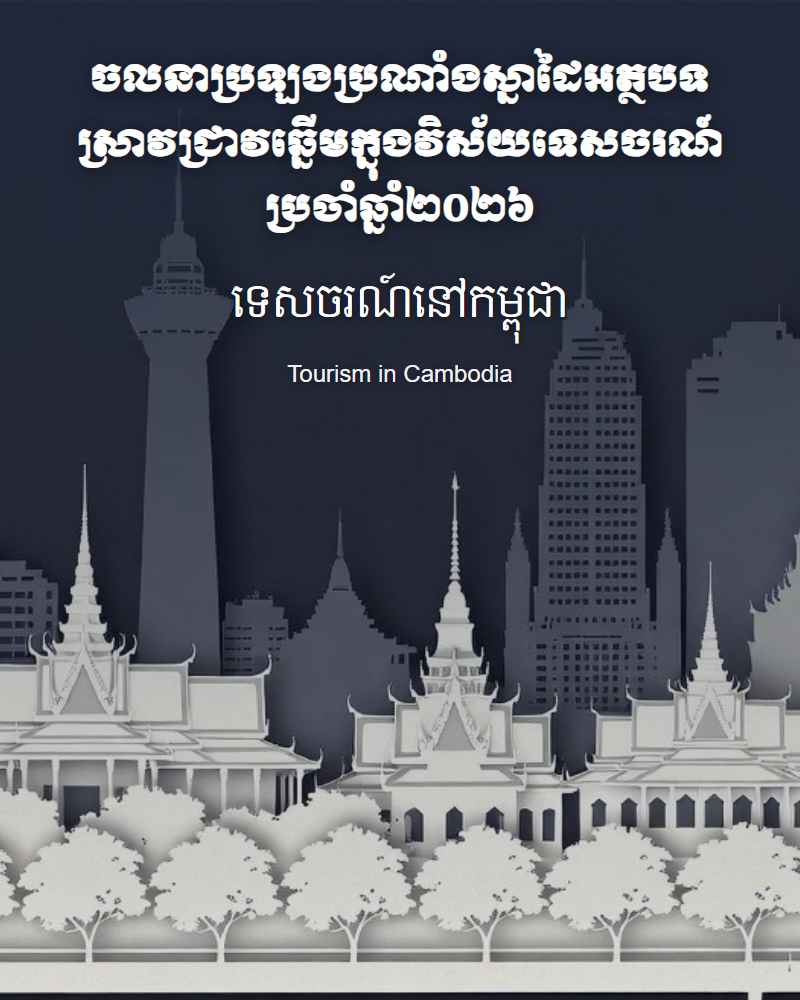
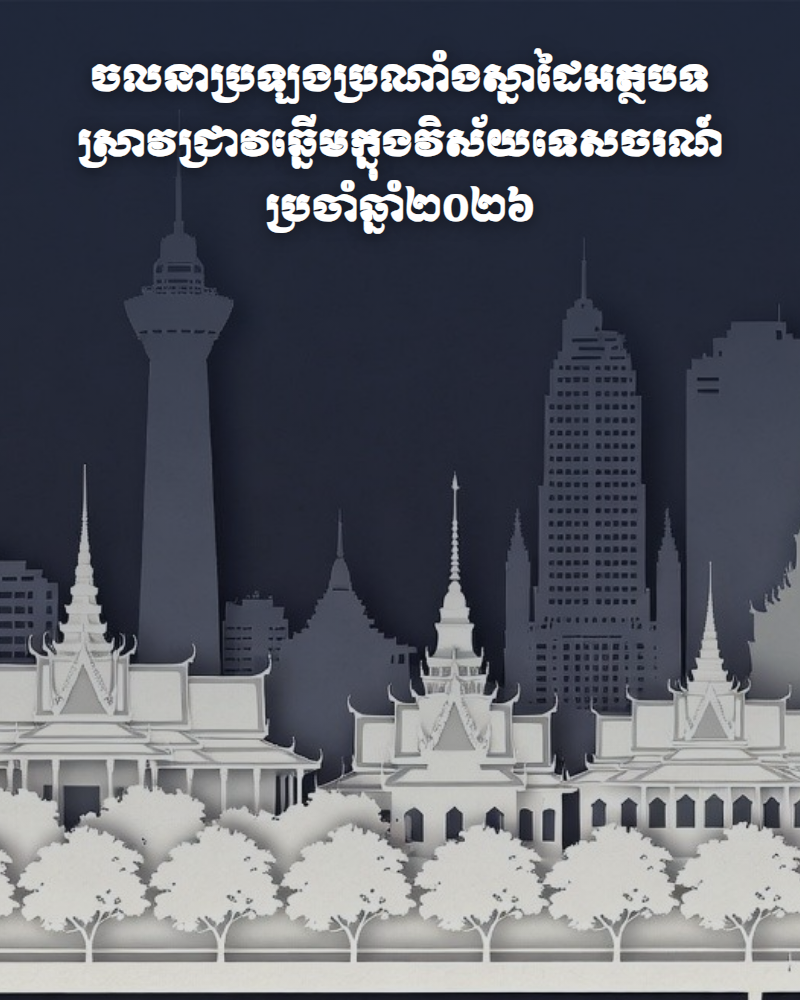
feat: extend student registration and refresh site content

Changed region(s): [[0.2812, 0.279, 0.7188, 0.341], [0.375, 0.372, 0.6562, 0.403]]

diff --git a/register.html b/register.html
@@ -1012,13 +1012,21 @@
 
         .form-group input[type="text"],
         .form-group input[type="email"],
-        .form-group input[type="tel"] {
+        .form-group input[type="tel"],
+        .form-group select {
             min-height: 54px;
             border: 1.5px solid #ccd8e6;
             border-radius: 12px;
             background: #fbfdff;
             color: #102a43;
             box-shadow: inset 0 1px 2px rgba(15, 35, 55, 0.03);
+        }
+
+        .form-group select {
+            appearance: auto;
+            -webkit-appearance: menulist;
+            padding-right: 1rem;
+            cursor: pointer;
         }
 
         .form-group input:hover {
@@ -1029,29 +1037,6 @@
             border-color: #0065b3;
             background: #fff;
             box-shadow: 0 0 0 4px rgba(0, 101, 179, 0.12);
-        }
-
-        .participant-type {
-            display: flex;
-            align-items: center;
-            gap: 0.75rem;
-            min-height: 54px;
-            padding: 0.8rem 1rem;
-            border: 1px solid #b8d5ee;
-            border-radius: 12px;
-            background: linear-gradient(135deg, #eef7ff, #f7fbff);
-            color: #004282;
-            font-weight: 700;
-        }
-
-        .participant-type i {
-            display: grid;
-            width: 32px;
-            height: 32px;
-            place-items: center;
-            border-radius: 50%;
-            background: #004282;
-            color: #fff;
         }
 
         .radio-group {
@@ -1131,8 +1116,8 @@
     <main>
         <div class="register-container">
             <div class="form-title">
-                <h1>ទម្រង់ចុះឈ្មោះ ចូលរួមចលនាប្រឡងប្រណាំងអត្ថបទសិក្សាស្រាវជ្រាវឆ្នើម</h1>
-                <h2>FORM Research Contest</h2>
+                <h1>ទម្រង់ចុះឈ្មោះ ចូលរួមចលនាប្រឡងប្រណាំងអត្ថបទស្រាវជ្រាវឆ្នើម</h1>
+                <h2>Research Contest FORM</h2>
             </div>
 
             <!-- Success Message Container (Hidden by default) -->
@@ -1162,22 +1147,19 @@
             <!-- Registration Form (Visible by default) -->
             <form id="contactForm" class="register-form" data-register-form="true">
                 <hr class="form-divider">
-                
-                <div class="form-group">
-                    <label for="type"> <span class="required">*</span></label>
-                    <input type="hidden" id="type" name="type" value="university">
-                    <div class="participant-type" aria-label="និស្សិត / University Student">
-                        <i class="fas fa-user-graduate" aria-hidden="true"></i>
-                        <span>និស្សិត / University Student</span>
-                    </div>
-                </div>
-
                 <hr class="form-divider">
 
                 <div class="form-group">
-                    <label for="name">ឈ្មោះ <span class="required">*</span></label>
+                    <label for="name">ឈ្មោះពេញ <span class="required">*</span></label>
                     <input type="text" id="name" name="name" placeholder="បញ្ចូលឈ្មោះពេញ / Enter your full name" autocomplete="name" required>
                 </div>
+                <hr class="form-divider">
+
+                <div class="form-group">
+                    <label for="name">ឈ្មោះពេញជាអក្សរឡាតាំង <span class="required">*</span></label>
+                    <input type="text" id="name" name="name" placeholder="បញ្ចូលឈ្មោះពេញជាអក្សរឡាតាំង / Enter your full name in Latin" autocomplete="name" required>
+                </div>
+
 
                 <hr class="form-divider">
 
@@ -1198,6 +1180,44 @@
                 <hr class="form-divider">
 
                 <div class="form-group">
+                    <label for="nationality">សញ្ជាតិ <span class="required">*</span></label>
+                    <input type="text" id="nationality" name="nationality" placeholder="បញ្ចូលសញ្ជាតិ / Enter nationality" autocomplete="country-name" required>
+                </div>
+
+                <hr class="form-divider">
+
+                <div class="form-group">
+                    <label for="educationLevel">កម្រិតសិក្សា <span class="required">*</span></label>
+                    <select id="educationLevel" name="educationLevel" required>
+                        <option value="" selected disabled>-- ជ្រើសរើសកម្រិតសិក្សា --</option>
+                        <option value="បរិញ្ញាបត្រ">បរិញ្ញាបត្រ</option>
+                        <option value="បរិញ្ញាបត្ររង">បរិញ្ញាបត្ររង</option>
+                    </select>
+                </div>
+
+                <hr class="form-divider">
+
+                <div class="form-group">
+                    <label for="studyYear">ឆ្នាំសិក្សា <span class="required">*</span></label>
+                    <select id="studyYear" name="studyYear" required>
+                        <option value="" selected disabled>-- ជ្រើសរើសឆ្នាំសិក្សា --</option>
+                        <option value="ឆ្នាំទី១">ឆ្នាំទី១</option>
+                        <option value="ឆ្នាំទី២">ឆ្នាំទី២</option>
+                        <option value="ឆ្នាំទី៣">ឆ្នាំទី៣</option>
+                        <option value="ឆ្នាំទី៤">ឆ្នាំទី៤</option>
+                    </select>
+                </div>
+
+                <hr class="form-divider">
+
+                <div class="form-group">
+                    <label for="major">មុខជំនាញ <span class="required">*</span></label>
+                    <input type="text" id="major" name="major" placeholder="បញ្ចូលមុខជំនាញ / Enter major" required>
+                </div>
+
+                <hr class="form-divider">
+
+                <div class="form-group">
                     <label for="organization">ឈ្មោះគ្រឹះស្ថានសិក្សា</label>
                     <input type="text" id="organization" name="organization" placeholder="ឈ្មោះសាកលវិទ្យាល័យ / University name" autocomplete="organization">
                 </div>
@@ -1205,9 +1225,9 @@
                 <hr class="form-divider">
 
                 <div class="form-group">
-                    <label for="studentIdCard">បណ្ណសម្គាល់ខ្លូនសិស្ស</label>
+                    <label for="studentIdCard">បណ្ណសម្គាល់ខ្លូននិស្សិត</label>
                     <input type="file" id="studentIdCard" name="studentIdCard" accept="image/*,.pdf">
-                    <small class="file-help">រូបភាព ឬ PDF បណ្ណសម្គាល់ខ្លួនសិស្សរបស់អ្នក។ / Please upload a clear image or PDF of your student ID card (max 5MB).</small>
+                    <small class="file-help">រូបភាព ឬ PDF បណ្ណសម្គាល់ខ្លួននិស្សិតរបស់អ្នក។ / Please upload a clear image or PDF of your student ID card (max 5MB).</small>
                     <div id="fileError" class="file-error"></div>
                     <div id="fileInfo" class="file-info">
                         <div class="file-info-text">
@@ -1436,9 +1456,12 @@
                 formStatus.className = 'form-status';
 
                 const payload = {
-                    type: document.getElementById('type').value,
                     name: document.getElementById('name').value,
                     gender: form.querySelector('input[name="gender"]:checked')?.value || '',
+                    nationality: document.getElementById('nationality').value,
+                    educationLevel: document.getElementById('educationLevel').value,
+                    studyYear: document.getElementById('studyYear').value,
+                    major: document.getElementById('major').value,
                     organization: document.getElementById('organization').value,
                     phone: document.getElementById('phone').value,
                     email: document.getElementById('email').value

diff --git a/docs/google-apps-script.js b/docs/google-apps-script.js
@@ -14,6 +14,22 @@ const CONFIG = {
   DRIVE_FOLDER_ID: '1y8wdyCIVNMrW6jn_2857-_6kCH9dUrb_'
 };
 
+const REGISTRATION_HEADERS = [
+  'Timestamp',
+  'Name',
+  'Gender',
+  'Nationality',
+  'Education Level',
+  'Study Year',
+  'Major',
+  'Organization',
+  'Phone',
+  'Email',
+  'Email Sent',
+  'Student ID Card',
+  'File Link'
+];
+
 function doPost(e) {
   var emailSent = false;
   var emailError = '';
@@ -109,9 +125,10 @@ function doPost(e) {
     var sheet = spreadsheet.getSheetByName(CONFIG.SHEET_NAME);
     if (!sheet) {
       sheet = spreadsheet.insertSheet(CONFIG.SHEET_NAME);
-      sheet.appendRow(['Timestamp', 'Type', 'Name', 'Gender', 'Organization', 'Phone', 'Email', 'Email Sent', 'Student ID Card', 'File Link']);
+      sheet.appendRow(REGISTRATION_HEADERS);
       Logger.log('Created new sheet: ' + CONFIG.SHEET_NAME);
     } else {
+      ensureRegistrationHeaders(sheet);
       Logger.log('Using existing sheet: ' + CONFIG.SHEET_NAME + ' | Last row: ' + sheet.getLastRow());
     }
 
@@ -130,7 +147,8 @@ function doPost(e) {
     // Duplicate prevention: skip if the same email already exists in the sheet
     var emailToCheck = (data.email || '').trim().toLowerCase();
     if (emailToCheck) {
-      var emailColumn = sheet.getRange(2, 7, Math.max(sheet.getLastRow() - 1, 1), 1).getValues();
+      var emailColumnIndex = REGISTRATION_HEADERS.indexOf('Email') + 1;
+      var emailColumn = sheet.getRange(2, emailColumnIndex, Math.max(sheet.getLastRow() - 1, 1), 1).getValues();
       for (var r = 0; r < emailColumn.length; r++) {
         if (String(emailColumn[r][0] || '').trim().toLowerCase() === emailToCheck) {
           Logger.log('Duplicate submission detected for email: ' + data.email);
@@ -170,9 +188,12 @@ function doPost(e) {
 
     sheet.appendRow([
       new Date(),
-      sanitizeInput(data.type) || '',
       sanitizeInput(data.name) || '',
       sanitizeInput(data.gender) || '',
+      sanitizeInput(data.nationality) || '',
+      sanitizeInput(data.educationLevel) || '',
+      sanitizeInput(data.studyYear) || '',
+      sanitizeInput(data.major) || '',
       sanitizeInput(data.organization) || '',
       sanitizeInput(data.phone) || '',
       sanitizeInput(data.email) || '',
@@ -187,7 +208,7 @@ function doPost(e) {
       .createTextOutput(JSON.stringify({
         status: 'success',
         message: 'Form submitted successfully',
-        script_version: '2026-06-17-v3',
+        script_version: '2026-08-05-v5',
         sheet_id: CONFIG.SHEET_ID,
         sheet_name: CONFIG.SHEET_NAME,
         debug: {
@@ -230,6 +251,38 @@ function getFormValue(value) {
   return String(value);
 }
 
+// Migrates earlier registration sheets to the current schema.
+// Removes the obsolete Type column and places the student fields after Gender.
+function ensureRegistrationHeaders(sheet) {
+  if (sheet.getLastRow() === 0) {
+    sheet.appendRow(REGISTRATION_HEADERS);
+    return;
+  }
+
+  var currentColumnCount = Math.max(sheet.getLastColumn(), 1);
+  var currentHeaders = sheet.getRange(1, 1, 1, currentColumnCount).getValues()[0];
+
+  if (currentHeaders[1] === 'Type') {
+    sheet.deleteColumn(2);
+    Logger.log('Removed obsolete Type column');
+    currentColumnCount = Math.max(sheet.getLastColumn(), 1);
+    currentHeaders = sheet.getRange(1, 1, 1, currentColumnCount).getValues()[0];
+  }
+
+  var alreadyMigrated = currentHeaders[3] === 'Nationality' &&
+    currentHeaders[4] === 'Education Level' &&
+    currentHeaders[5] === 'Study Year' &&
+    currentHeaders[6] === 'Major';
+
+  if (!alreadyMigrated) {
+    sheet.insertColumnsAfter(3, 4);
+    Logger.log('Inserted columns for Nationality, Education Level, Study Year, and Major');
+  }
+
+  sheet.getRange(1, 1, 1, REGISTRATION_HEADERS.length).setValues([REGISTRATION_HEADERS]);
+  sheet.setFrozenRows(1);
+}
+
 function sanitizeInput(value) {
   if (value === undefined || value === null) {
     return '';
@@ -249,9 +302,12 @@ function sendConfirmationEmail(data, uploadedFileUrl, uploadedFileName) {
   var fileLine = uploadedFileUrl ? "<p>📎 Student ID Card uploaded: <a href='" + uploadedFileUrl + "'>" + linkLabel + "</a></p>" : '';
   
   var safeData = {
-    type: sanitizeInput(data.type),
     name: sanitizeInput(data.name),
     gender: sanitizeInput(data.gender),
+    nationality: sanitizeInput(data.nationality),
+    educationLevel: sanitizeInput(data.educationLevel),
+    studyYear: sanitizeInput(data.studyYear),
+    major: sanitizeInput(data.major),
     organization: sanitizeInput(data.organization),
     phone: sanitizeInput(data.phone),
     email: sanitizeInput(data.email)
@@ -262,9 +318,12 @@ function sendConfirmationEmail(data, uploadedFileUrl, uploadedFileName) {
                 "<p>Thank you for registering for the Competition Research. Your data has been received and recorded successfully.</p>" +
                 "<p>Here's a copy of your submission:<br>" +
                 "---------------------------------<br>" +
-                "Type: " + safeData.type + "<br>" +
                 "Name: " + safeData.name + "<br>" +
                 "Gender: " + safeData.gender + "<br>" +
+                "Nationality: " + safeData.nationality + "<br>" +
+                "Education Level: " + safeData.educationLevel + "<br>" +
+                "Study Year: " + safeData.studyYear + "<br>" +
+                "Major: " + safeData.major + "<br>" +
                 "Organization: " + safeData.organization + "<br>" +
                 "Phone: " + safeData.phone + "<br>" +
                 "Email: " + safeData.email + "<br>" +
@@ -312,9 +371,12 @@ function doGet(e) {
 //   2. Verify email delivery works before going live
 function testEmail() {
   var testData = {
-    type: 'student',
     name: 'Test User',
     gender: 'male',
+    nationality: 'Cambodian',
+    educationLevel: 'បរិញ្ញាបត្រ',
+    studyYear: 'ឆ្នាំទី១',
+    major: 'Tourism Management',
     organization: 'Test Org',
     phone: '012345678',
     email: Session.getActiveUser().getEmail() // sends to the script owner's email

diff --git a/index.html b/index.html
@@ -1323,10 +1323,10 @@
         </div>
         <nav aria-label="Primary">
             <ul>
-                <li><a href="#about">About</a></li>
-                <li><a href="#features">Features</a></li>
-                <li><a href="library.html">Library</a></li>
-                <li><a href="upload.html">Upload</a></li>
+                <li><a href="#about">អំពីចលនាប្រឡងប្រណាំង </a></li>
+                <li><a href="#features">មុខងារ</a></li>
+                <li><a href="library.html">បណ្ណាល័យឯកសារទេសចរណ៍</a></li>
+                <li><a href="upload.html">ដាក់បញ្ជូនឯកសារ</a></li>
             </ul>
         </nav>
     </header>
@@ -1454,7 +1454,7 @@
         <div class="footer-main">
             <section class="footer-brand" aria-label="Research and Tourism Policy Department">
                 <img src="assets/img/tourism-logo.png" alt="Ministry of Tourism Cambodia">
-                <p>នាយកដ្ឋានស្រាវជ្រាវ និងគោលនយោបាយទេសចរណ៍ — Research and Tourism Policy Department.</p>
+                <p>នាយកដ្ឋានស្រាវជ្រាវ និងគោលនយោបាយទេសចរណ៍  Research and Tourism Policy Department</p>
             </section>
             <section>
                 <h3>ទំនាក់ទំនង / Contact</h3>
@@ -1477,7 +1477,8 @@
                 <h3>បណ្ដាញសង្គម / Follow Us</h3>
                 <div class="social" aria-label="Social links">
                     <a href="https://t.me/+O8E1NI5QxwJlMjQ1" target="_blank" rel="noopener noreferrer">Telegram</a>
-                    <a href="https://www.facebook.com/share/1BGkHw3TCq/" target="_blank" rel="noopener noreferrer">Facebook</a>
+                    <a href="https://www.facebook.com/share/1BxQCThU8h/" target="_blank" rel="noopener noreferrer">Ministry Of Tourism</a>
+                    <a href="https://www.facebook.com/share/1BGkHw3TCq/" target="_blank" rel="noopener noreferrer">Facebook RTPD</a>
                 </div>
             </section>
         </div>

diff --git a/assets/img/banner_render_mobile.html b/assets/img/banner_render_mobile.html
@@ -58,32 +58,6 @@
             display: block;
         }
         
-        .khmer-text {
-            position: absolute;
-            top: 275px;
-            left: 0;
-            right: 0;
-            text-align: center;
-            font-size: 42px;
-            color: #ffffff;
-            font-family: "Khmer OS Content", "Khmer OS", "Noto Sans Khmer", sans-serif;
-            line-height: 1.4;
-            z-index: 2;
-            text-shadow: 0 2px 10px rgba(0, 0, 0, 0.5);
-        }
-        
-        .subtitle {
-            position: absolute;
-            top: 360px;
-            left: 0;
-            right: 0;
-            text-align: center;
-            font-size: 24px;
-            color: #f0f0f5;
-            font-family: Arial, sans-serif;
-            z-index: 2;
-            text-shadow: 0 2px 8px rgba(0, 0, 0, 0.4);
-        }
     </style>
 </head>
 <body>
@@ -93,8 +67,6 @@
             <span>ស្រាវជ្រាវឆ្នើមក្នុងវិស័យទេសចរណ៍</span>
             <span>ប្រចាំឆ្នាំ២០២៦</span>
         </div>
-        <div class="khmer-text">ទេសចរណ៍នៅកម្ពុជា</div>
-        <div class="subtitle">Tourism in Cambodia</div>
     </div>
 </body>
 </html>

diff --git a/upload.html b/upload.html
@@ -832,7 +832,7 @@
     <main>
         <div class="register-container">
             <section class="mobile-hero" aria-labelledby="uploadTitle">
-                <div class="eyebrow"><svg viewBox="0 0 24 24" aria-hidden="true"><path d="M19 3H5c-1.1 0-2 .9-2 2v14c0 1.1.9 2 2 2h14c1.1 0 2-.9 2-2V5c0-1.1-.9-2-2-2zm-6 14H7v-2h6v2zm4-4H7v-2h10v2zm0-4H7V7h10v2z"/></svg> Research library</div>
+                <div class="eyebrow"><svg viewBox="0 0 24 24" aria-hidden="true"><path d="M19 3H5c-1.1 0-2 .9-2 2v14c0 1.1.9 2 2 2h14c1.1 0 2-.9 2-2V5c0-1.1-.9-2-2-2zm-6 14H7v-2h6v2zm4-4H7v-2h10v2zm0-4H7V7h10v2z"/></svg></div>
                 <h1 id="uploadTitle">ទម្រង់ផ្ញើឯកសារស្រាវជ្រាវ</h1>
                 <p>Upload your research document securely in a few simple steps.</p>
             </section>
